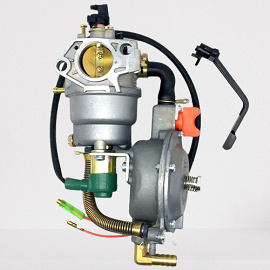
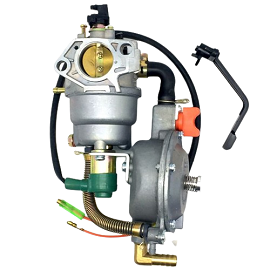
updated

Changed region(s): [[0.0, 0.7111, 1.0, 1.0], [0.0, 0.0, 0.2667, 0.7111], [0.1185, 0.4148, 0.1481, 0.4444]]

diff --git a/src/components/ProductHome.jsx b/src/components/ProductHome.jsx
@@ -1,6 +1,6 @@
 import React from 'react';
 import Product2 from '../assets/product2.png';
-// import Product2n2 from '../assets/product2n2.png';
+import Product2n2 from '../assets/product2n2.png';
 
 const ProductHome = () => {
   return (
@@ -19,7 +19,7 @@ const ProductHome = () => {
     <a href="#!">
       <img
         class="rounded-t-lg"
-        src={Product2}
+        src={Product2n2}
         alt="Hollywood Sign on The Hill" />
     </a>
    </div>
